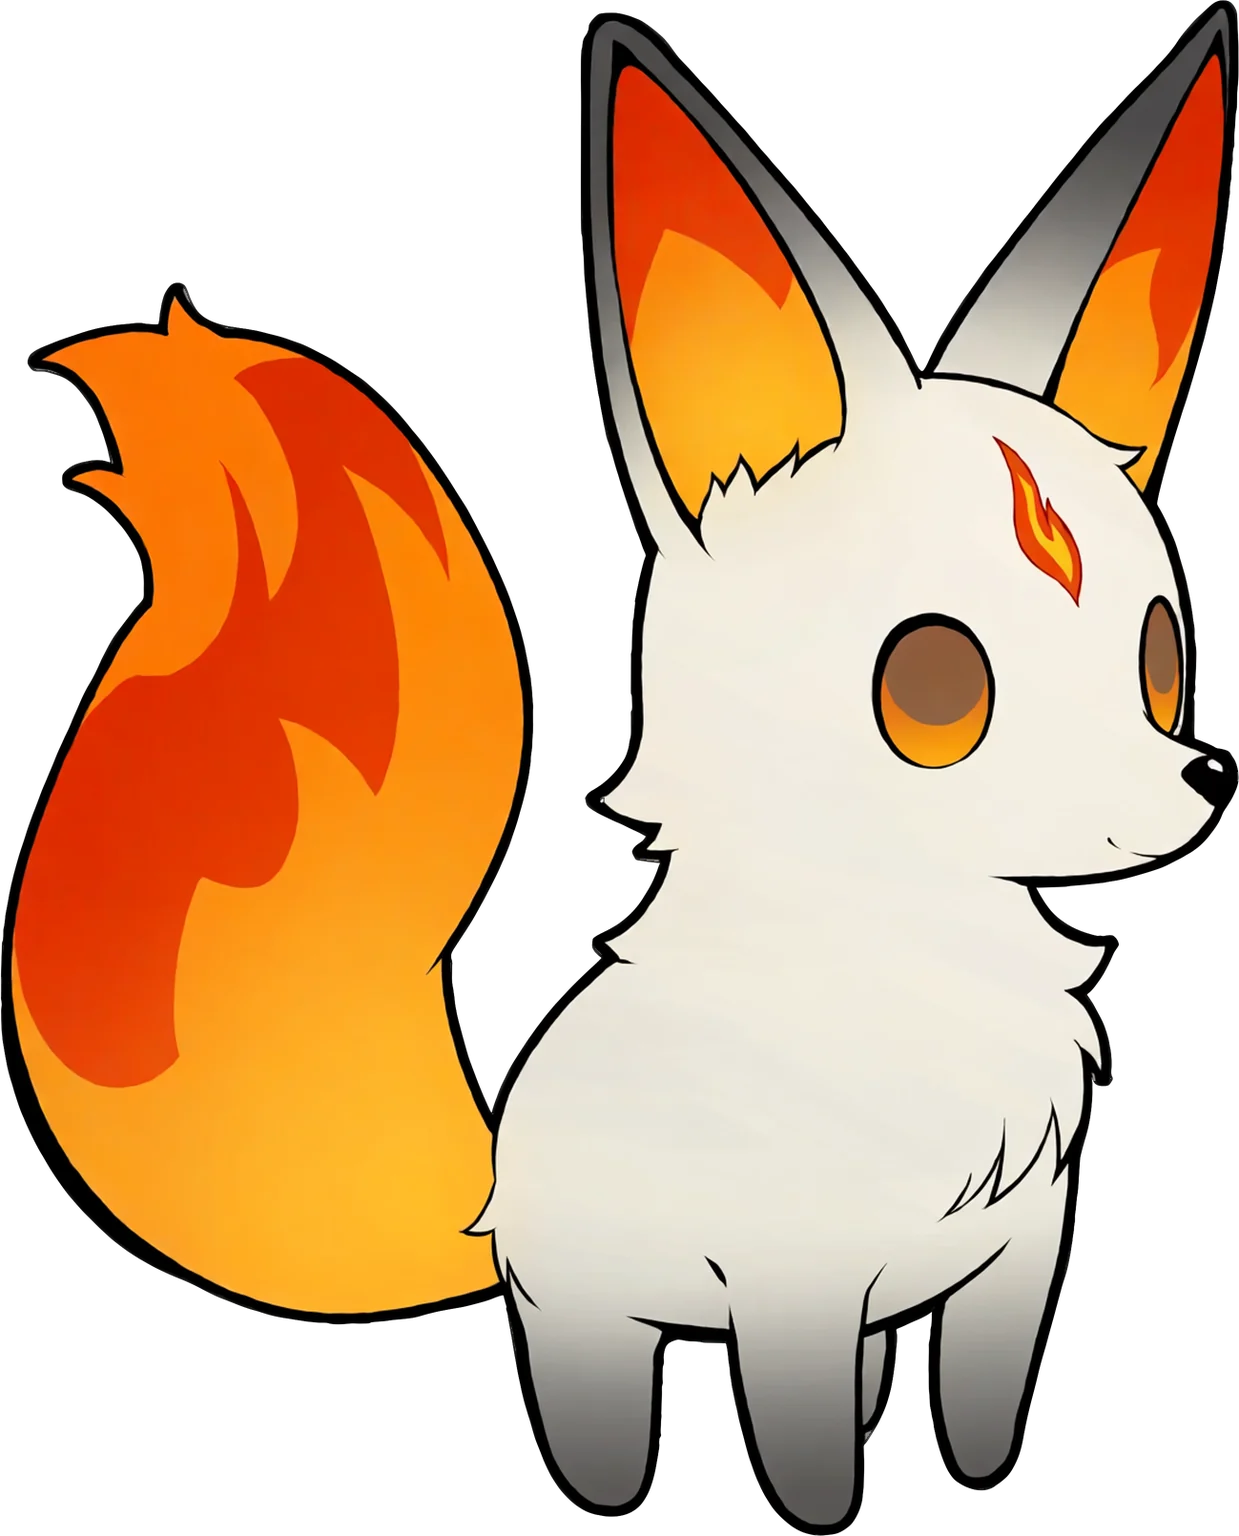
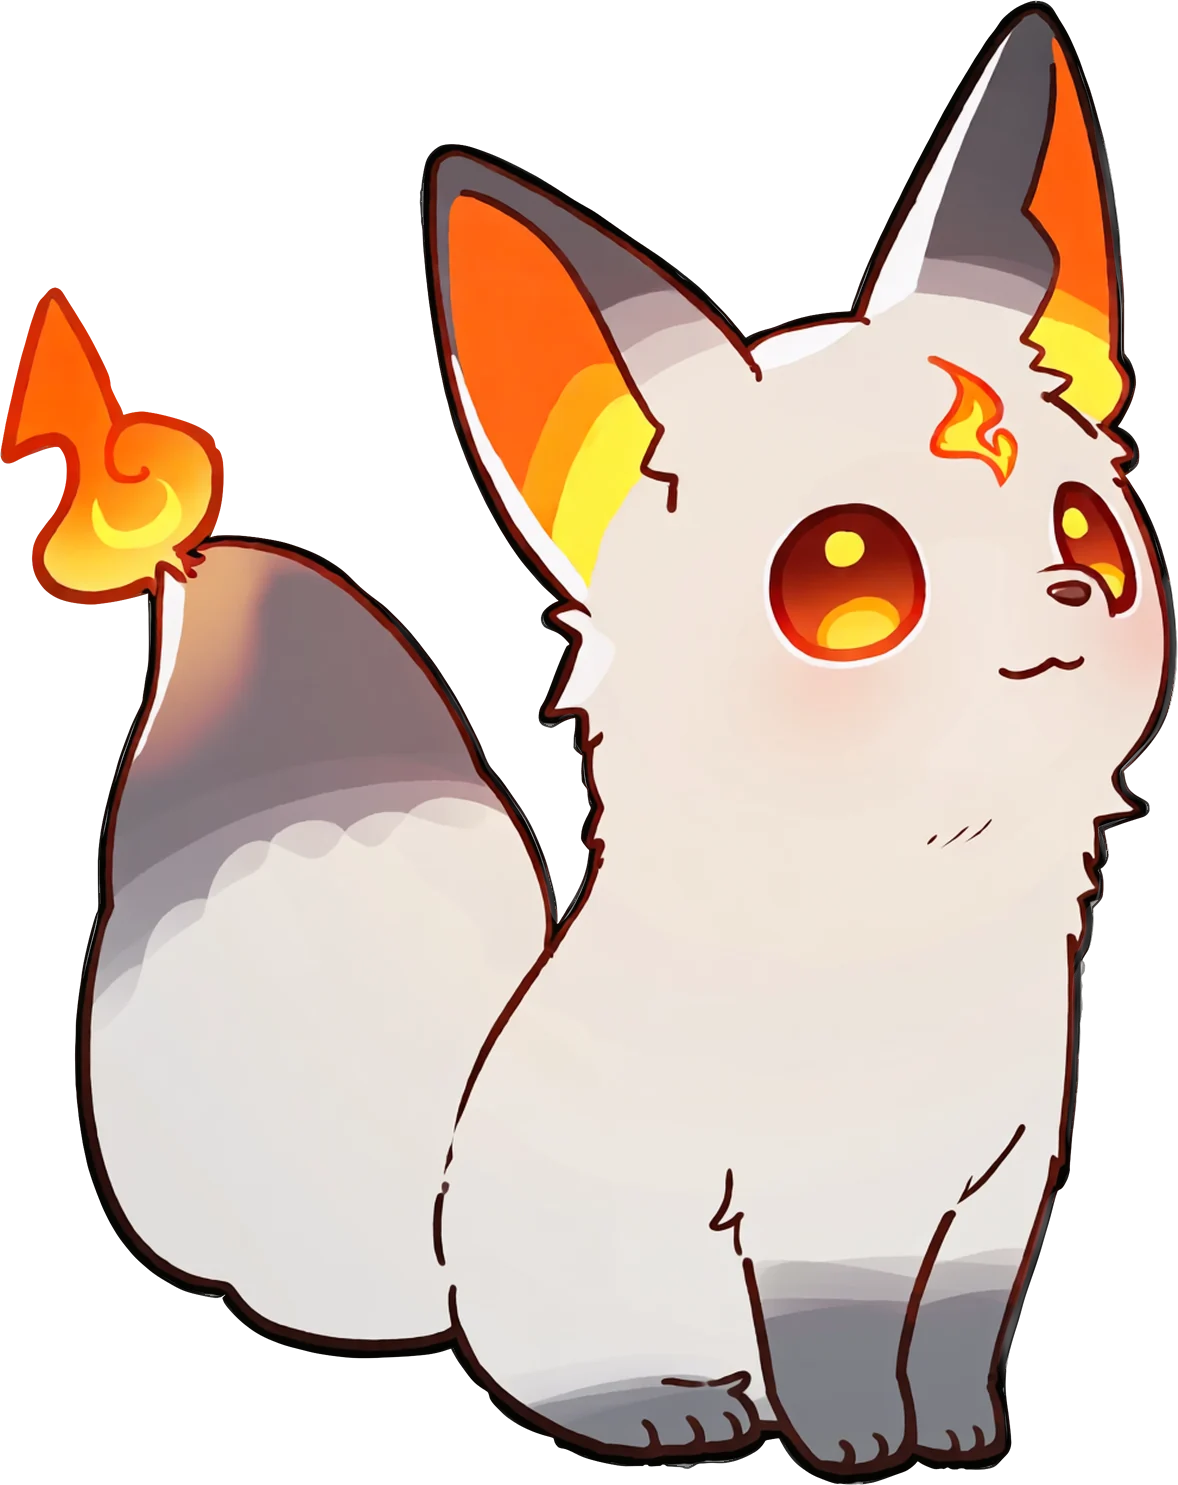
불여우 s8105 라인 확정: 유체를 r2-8105로 갈아 끼우고 임시 표시 지움 (0147)
Lucy 2026-11-18 "s8105 라인으로 가자". 갈아 끼우는 도구 이름을 import-spirit-one.py로.

Claude-Session: https://claude.ai/code/session_01AvnAswBB5hMwS1HVmXmnNv

diff --git a/src/presentation/spirits/fromGarden.test.ts b/src/presentation/spirits/fromGarden.test.ts
@@ -38,7 +38,7 @@ describe("정령 관리 화면 데이터", () => {
     expect(vm.roster).toHaveLength(4 + MOCKUPS.length - 1);
   });
 
-  it("일러스트: 지금 단계 그림 (불여우는 임시 선택 그림)", () => {
+  it("일러스트: 지금 단계 그림 (불여우 포함)", () => {
     const vm = spiritsVM(GARDENS.mixed, "mist_cat");
     expect(vm.roster.map((t) => t.face?.key)).toEqual(["spirit:fire_fox:baby:body", "spirit:glass_salamander:adult:body", "spirit:mist_cat:awakened:body"]);
     expect(vm.detail.art).toMatchObject({ key: "spirit:mist_cat:awakened:body", frame: { k: "face" } });

diff --git a/tools/art/import-spirit-one.py b/tools/art/import-spirit-one.py
@@ -1,5 +1,5 @@
-# 정령 하나의 후처리 끝난 그림(배경 없는 재묘사본)을 게임 파일로 옮겨요. Lucy 칸 선택 전 임시 선택용이라 갈아 끼우기 쉽게 정령 하나만 다뤄요.
-# 쓰는 법: python -I tools/art/import-spirit-provisional.py <전달 폴더> <정령 id(fire_fox)> <저장소 루트>
+# 정령 하나의 후처리 끝난 그림(배경 없는 재묘사본)을 게임 파일로 옮겨요. 임시 선택이든 Lucy 선택이든 정령 하나만 갈아 끼워요(meta.json status가 confirmed면 Lucy 선택).
+# 쓰는 법: python -I tools/art/import-spirit-one.py <전달 폴더> <정령 id(fire_fox)> <저장소 루트>
 #   전달 폴더: <stage>.rgba.png(baby·adult·awakened, 배경 제거 → 2× → 재묘사 끝난 것), <stage>.orig.png(원본 PNG), meta.json, faces.json
 # 만드는 것: public/assets/spirits/<정령>/<단계>.webp (import-spirits.py와 같은 규격), spiritFrames.json의 그 정령 줄,
 #          assets/provenance.jsonl의 그 정령 줄 (status placeholder, note에 임시 선택 표시)
@@ -65,9 +65,10 @@ def main(src: Path, sid: str, repo: Path):
             "prompt": m["prompt"], "negative": m["negative"], "seed": m["seed"], "settings": m["settings"],
             "prompt_sheet": f"jjal {m['run_id']} ({m['case_id']})",
             "references": None,
-            "source_png": f"Lucy 맥 ~/workspace/jjal exports/fire-fox-ash-provisional-20261118/transfer/{folder}/{stage}.orig.png (sha256 {m['orig_sha256']})",
-            "human_work": f"Lucy 생성 라인(잿불 라인 = 기존 라인 형태 + 잿불 색) 위에서 Claude가 후보 생성·임시 선택. 후처리(luddal-win): {steps}. 게임 반입: 알파 기준 자르기, 바깥 테두리 색 정리, 긴 변 {base.LONG} webp",
-            "note": "임시 선택 (provisional): Lucy 칸 선택 전. 고르면 같은 명령으로 갈아 끼워요",
+            "source_png": f"Lucy 맥 ~/workspace/jjal {meta.get('export_dir', 'exports/fire-fox-ash-final-20261118')}/transfer/{folder}/{stage}.orig.png (sha256 {m['orig_sha256']})",
+            "human_work": f"Lucy 생성 라인(잿불 라인 = 기존 라인 형태 + 잿불 색) 위에서 Claude가 후보 생성, Lucy 선택(meta status). 후처리(luddal-win): {steps}. 게임 반입: 알파 기준 자르기, 바깥 테두리 색 정리, 긴 변 {base.LONG} webp",
+            "note": (f"Lucy 선택: {meta['status'].split('—', 1)[-1].strip()}" if str(meta.get("status", "")).startswith("confirmed")
+                     else "임시 선택 (provisional): Lucy 칸 선택 전. 고르면 같은 명령으로 갈아 끼워요"),
         })
     fj = repo / "src/presentation/spiritFrames.json"
     cur = json.loads(fj.read_text(encoding="utf-8"))

diff --git a/docs/design-decisions/0147-fire-fox-ash-line.md b/docs/design-decisions/0147-fire-fox-ash-line.md
@@ -1,17 +1,17 @@
-# 0147. 불여우 그림: 잿불 라인, 추천 칸을 임시 선택으로 연결
+# 0147. 불여우 그림: 잿불 라인 s8105
 
 - 날짜: 2026-11-18
 - 단계: P6 엔진 구현
 - 라운드: 프로젝트 스레드 "불여우 성체 그림 다시 뽑기" (시트 https://claude.ai/artifact/EGMKqUt7HmXqfdouSF3QYQ#ash)
-- 상태: 방향은 수락됨 (Lucy 2026-11-17 "잿불 2라인으로 하자"). 칸은 임시 선택이고 Lucy 선택 대기
+- 상태: 수락됨 (Lucy 2026-11-17 "잿불 2라인으로 하자", 2026-11-18 "s8105 라인으로 가자")
 
 ## 결정
 - 불여우 생김새는 **잿불 라인**이에요. 10월에 고른 라인(등불 심지 유체 · 불씨 드레스 성체 · 불새 각성체)의 형태와 구도에, 재 흰색 털 · 머리, 숯불 주홍 끝, 숯빛 귀끝, 꼬리 끝 숯불을 입혀요. 꼬리는 1 → 2 → 3.
-- 게임에는 추천 칸을 **임시 선택**으로 넣어요: 유체 ash-r1-8101, 성체 ash-r2-8105, 각성체 ash-r2-8105. 후처리는 다른 정령과 같은 길(배경 제거 → 2× → 재묘사 denoise 0.55)이에요.
-- Lucy가 칸을 고르면 `tools/art/import-spirit-provisional.py <전달 폴더> fire_fox .`로 갈아 끼워요. 피팅 값(`spiritFit.json`)은 처음 값이라 피팅 페이지에서 고쳐요.
+- 칸은 **세 단계 모두 ash-r2 seed 8105**예요(유체 · 성체 · 각성체). 처음엔 유체 r1-8101을 임시로 넣었다가 Lucy 선택으로 바꿨어요. 후처리는 다른 정령과 같은 길(배경 제거 → 2× → 재묘사 denoise 0.55)이에요.
+- 다시 갈아 끼울 땐 `tools/art/import-spirit-one.py <전달 폴더> fire_fox .`. 피팅 값(`spiritFit.json`)은 처음 값이라 피팅 페이지에서 고쳐요.
 
 ## 결과
-- `public/assets/spirits/fire-fox/`, `spiritFrames.json` · `spiritFit.json`의 `fire_fox`, `assets/provenance.jsonl`(note에 임시 선택).
+- `public/assets/spirits/fire-fox/`, `spiritFrames.json` · `spiritFit.json`의 `fire_fox`, `assets/provenance.jsonl`(note에 Lucy 선택).
 - 불여우가 빈 상자였던 정령 화면 · 손패 초상 · 순서표 얼굴 · 전투 유체 자리에 그림이 들어가요.
 - 기존 원화는 세로 · 흰 배경 생성이라 다른 정령(정사각 · 회색)과 생성 규격이 달라요. 게임에서는 누끼라 차이가 없어요.
 - 1라운드 새 컨셉 셋(`design/concepts/fire-fox/r1-looks.md`)은 참고용이에요.

diff --git a/docs/handoff/DECISIONS.md b/docs/handoff/DECISIONS.md
@@ -17,7 +17,7 @@
 - **해방·쓰러짐**: 해방은 각성체가 전투마다 한 번 켜는 2턴 변신, 해방 카드 1칸·400ms(0076). 쓰러지면 그 전투만 기절 + 카드 봉인, 전투 뒤 HP 1. 영구 사망 없음(도전 모드는 런 끝까지 이탈)
 - **범위**: 출시 15줄, MVP에서 만나는 정령은 시작 풀 넷(불여우·유리 도롱뇽·산양·카멜레온). 유대·먹이기·재료는 MVP 밖 (0017, 0029, 0045, 0053, 0133)
 - **얻는 순서**: 첫 정령은 시작 풀(불여우·유리 도롱뇽·산양·카멜레온)에서 무작위, 첫 판 뒤 둘째, 첫 보스 뒤 셋째(둘 중 고르기). 적 편성은 인원에 맞추고 벤치 경험 없음 (0053)
-- **정령 그림**: 정령마다 유체 · 성체 · 각성체 일러스트(누끼). 불여우는 잿불 라인(재 흰색 + 숯불 주홍, 꼬리 1 → 2 → 3)의 임시 선택이 연결돼 있고 칸은 Lucy 선택 대기 (0023, 0147)
+- **정령 그림**: 정령마다 유체 · 성체 · 각성체 일러스트(누끼). 불여우는 잿불 라인 s8105(재 흰색 + 숯불 주홍, 꼬리 1 → 2 → 3) (0023, 0147)
 - **깃들기**: 판 끝에 꼭 고름(겹치면 연달아), 후보마다 성격이 보임, 안 고른 정령은 MVP에서 다시 못 얻음. 출전 준비는 둘 이상이면 매 판, 지난 앞열 기본 (0076)
 
 ## 전투

diff --git a/docs/design-decisions/README.md b/docs/design-decisions/README.md
@@ -134,5 +134,5 @@
 | 0133 | 성장 문턱을 다섯 막 한 판에 맞추기: 레벨 문턱 · 막은 피해 조건 · Lv2 · Lv3 카드 · MVP 줄 | 수락됨 (값은 임시) |
 | 0145 | 정령과 적이 공유할 그림 규칙 (초안) | 초안, Lucy 미컨펌 (바뀔 수 있음) |
 | 0146 | 전투의 아군 그림: 성체 · 각성체는 전투용 그림이 올 때까지 자리표시, 유체는 그대로 | 수락됨 (Lucy 2026-11-18). 유체 유지는 Lucy 확인 대기 |
-| 0147 | 불여우 그림: 잿불 라인, 추천 칸을 임시 선택으로 연결 | 방향 수락됨 (Lucy 2026-11-17), 칸은 임시 선택 |
+| 0147 | 불여우 그림: 잿불 라인 s8105 | 수락됨 (Lucy 2026-11-18) |
 | 0152 | 카드 그림 전체 규칙: 바탕 밝기 · 그리는 방식 · 덮개 자리 | 임시 규칙, Lucy 컨펌 전 |
